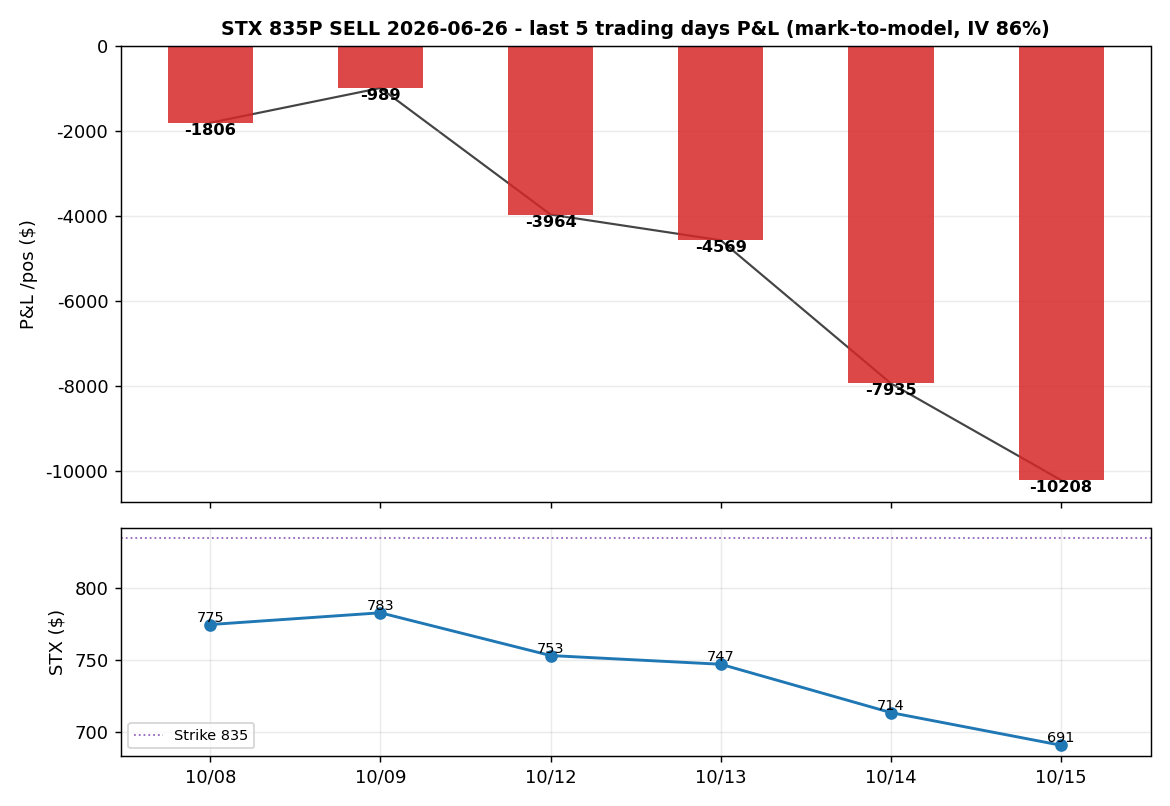
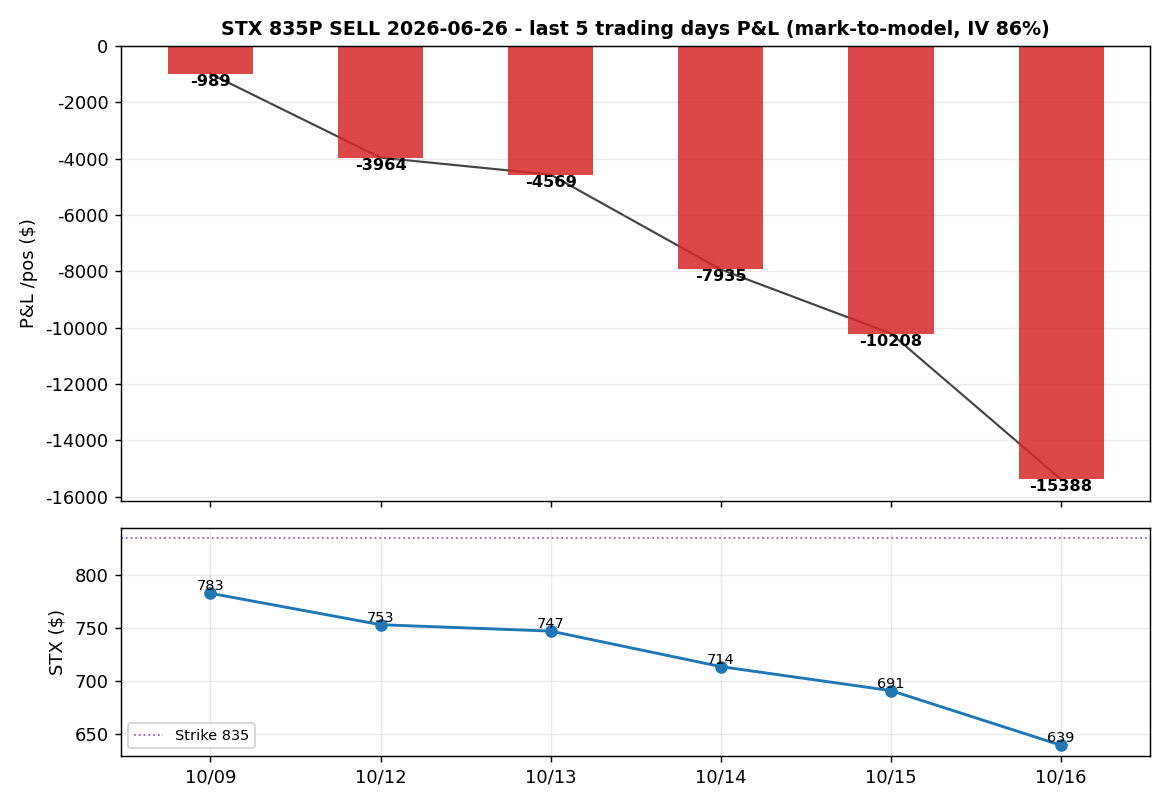
positions: 2026-10-16

diff --git a/positions.html b/positions.html
@@ -12,12 +12,12 @@ img{width:100%;height:auto;border-radius:8px;background:#fff}
 .warn{color:#e0a030;font-size:12.5px;line-height:1.7;margin-top:8px}
 </style></head><body><div class="wrap">
 <h1>持仓盈亏追踪</h1>
-<div class="sub">独立于每日荐股 · 数据 yfinance(延迟) · 盈亏为 BS 模型重算(IV 代理),非真实成交价 · 非投资建议<br>更新: 2026-10-15 23:46 UTC</div>
+<div class="sub">独立于每日荐股 · 数据 yfinance(延迟) · 盈亏为 BS 模型重算(IV 代理),非真实成交价 · 非投资建议<br>更新: 2026-10-16 23:48 UTC</div>
 <div class="card">
   <h2>STX Seagate · 835 PUT <span class="tag">SELL</span></h2>
   <div class="kv">到期 2026-06-26 · 建仓 2026-06-01 @ 权利金 $42.11 · 1 张<br>
-  最新(10/15): 标的 $690.81 · 浮动盈亏 <b class="r">-10,208</b>
-  (区间 -10,208 ~ -989)<br>
+  最新(10/16): 标的 $639.01 · 浮动盈亏 <b class="r">-15,388</b>
+  (区间 -15,388 ~ -989)<br>
   盈亏平衡 $792.89 · <b>赢的机率 PoP ≈ None%</b>(到期落在盈利侧, BS 估算)<br>
   下次财报 2026-10-27 ✅ 在到期后</div>
   <div style="font-size:12px;color:#8b8f98;margin:8px 0 2px">到期损益示意图</div>
@@ -30,15 +30,15 @@ img{width:100%;height:auto;border-radius:8px;background:#fff}
     <tr><th style="border:1px solid #23262d;padding:5px 12px;color:#e0a030">日期</th>
         <th style="border:1px solid #23262d;padding:5px 12px;color:#e0a030">标的</th>
         <th style="border:1px solid #23262d;padding:5px 12px;color:#e0a030">P&L</th></tr>
-    <tr><td style="border:1px solid #23262d;padding:5px 12px">10/08</td><td style="border:1px solid #23262d;padding:5px 12px">$774.83</td><td class='r'>-1,806</td></tr><tr><td style="border:1px solid #23262d;padding:5px 12px">10/09</td><td style="border:1px solid #23262d;padding:5px 12px">$783.0</td><td class='r'>-989</td></tr><tr><td style="border:1px solid #23262d;padding:5px 12px">10/12</td><td style="border:1px solid #23262d;padding:5px 12px">$753.25</td><td class='r'>-3,964</td></tr><tr><td style="border:1px solid #23262d;padding:5px 12px">10/13</td><td style="border:1px solid #23262d;padding:5px 12px">$747.2</td><td class='r'>-4,569</td></tr><tr><td style="border:1px solid #23262d;padding:5px 12px">10/14</td><td style="border:1px solid #23262d;padding:5px 12px">$713.54</td><td class='r'>-7,935</td></tr><tr><td style="border:1px solid #23262d;padding:5px 12px">10/15</td><td style="border:1px solid #23262d;padding:5px 12px">$690.81</td><td class='r'>-10,208</td></tr>
+    <tr><td style="border:1px solid #23262d;padding:5px 12px">10/09</td><td style="border:1px solid #23262d;padding:5px 12px">$783.0</td><td class='r'>-989</td></tr><tr><td style="border:1px solid #23262d;padding:5px 12px">10/12</td><td style="border:1px solid #23262d;padding:5px 12px">$753.25</td><td class='r'>-3,964</td></tr><tr><td style="border:1px solid #23262d;padding:5px 12px">10/13</td><td style="border:1px solid #23262d;padding:5px 12px">$747.2</td><td class='r'>-4,569</td></tr><tr><td style="border:1px solid #23262d;padding:5px 12px">10/14</td><td style="border:1px solid #23262d;padding:5px 12px">$713.54</td><td class='r'>-7,935</td></tr><tr><td style="border:1px solid #23262d;padding:5px 12px">10/15</td><td style="border:1px solid #23262d;padding:5px 12px">$690.81</td><td class='r'>-10,208</td></tr><tr><td style="border:1px solid #23262d;padding:5px 12px">10/16</td><td style="border:1px solid #23262d;padding:5px 12px">$639.01</td><td class='r'>-15,388</td></tr>
   </table>
   <div class="warn">⚠ mark-to-model:用真实日线 + BS 重算(IV 固定 86% 代理),非真实期权成交价。</div>
 </div>
 <div class="card">
   <h2>GOOGL 谷歌 · 345 PUT <span class="tag">SELL</span></h2>
   <div class="kv">到期 2026-07-17 · 建仓 2026-06-01 @ 权利金 $4.5 · 1 张<br>
-  最新(10/15): 标的 $349.22 · 浮动盈亏 <b class="g">+450</b>
-  (区间 +450 ~ +450)<br>
+  最新(10/16): 标的 $340.59 · 浮动盈亏 <b class="g">+9</b>
+  (区间 +9 ~ +450)<br>
   盈亏平衡 $340.5 · <b>赢的机率 PoP ≈ None%</b>(到期落在盈利侧, BS 估算)<br>
   下次财报 2026-10-28 ✅ 在到期后</div>
   <div style="font-size:12px;color:#8b8f98;margin:8px 0 2px">到期损益示意图</div>
@@ -51,14 +51,14 @@ img{width:100%;height:auto;border-radius:8px;background:#fff}
     <tr><th style="border:1px solid #23262d;padding:5px 12px;color:#e0a030">日期</th>
         <th style="border:1px solid #23262d;padding:5px 12px;color:#e0a030">标的</th>
         <th style="border:1px solid #23262d;padding:5px 12px;color:#e0a030">P&L</th></tr>
-    <tr><td style="border:1px solid #23262d;padding:5px 12px">10/08</td><td style="border:1px solid #23262d;padding:5px 12px">$348.29</td><td class='g'>+450</td></tr><tr><td style="border:1px solid #23262d;padding:5px 12px">10/09</td><td style="border:1px solid #23262d;padding:5px 12px">$351.66</td><td class='g'>+450</td></tr><tr><td style="border:1px solid #23262d;padding:5px 12px">10/12</td><td style="border:1px solid #23262d;padding:5px 12px">$352.72</td><td class='g'>+450</td></tr><tr><td style="border:1px solid #23262d;padding:5px 12px">10/13</td><td style="border:1px solid #23262d;padding:5px 12px">$353.78</td><td class='g'>+450</td></tr><tr><td style="border:1px solid #23262d;padding:5px 12px">10/14</td><td style="border:1px solid #23262d;padding:5px 12px">$347.64</td><td class='g'>+450</td></tr><tr><td style="border:1px solid #23262d;padding:5px 12px">10/15</td><td style="border:1px solid #23262d;padding:5px 12px">$349.22</td><td class='g'>+450</td></tr>
+    <tr><td style="border:1px solid #23262d;padding:5px 12px">10/09</td><td style="border:1px solid #23262d;padding:5px 12px">$351.66</td><td class='g'>+450</td></tr><tr><td style="border:1px solid #23262d;padding:5px 12px">10/12</td><td style="border:1px solid #23262d;padding:5px 12px">$352.72</td><td class='g'>+450</td></tr><tr><td style="border:1px solid #23262d;padding:5px 12px">10/13</td><td style="border:1px solid #23262d;padding:5px 12px">$353.78</td><td class='g'>+450</td></tr><tr><td style="border:1px solid #23262d;padding:5px 12px">10/14</td><td style="border:1px solid #23262d;padding:5px 12px">$347.64</td><td class='g'>+450</td></tr><tr><td style="border:1px solid #23262d;padding:5px 12px">10/15</td><td style="border:1px solid #23262d;padding:5px 12px">$349.22</td><td class='g'>+450</td></tr><tr><td style="border:1px solid #23262d;padding:5px 12px">10/16</td><td style="border:1px solid #23262d;padding:5px 12px">$340.59</td><td class='g'>+9</td></tr>
   </table>
   <div class="warn">⚠ mark-to-model:用真实日线 + BS 重算(IV 固定 31% 代理),非真实期权成交价。</div>
 </div>
 <div class="card">
   <h2>AAPL 苹果 · 295 PUT <span class="tag">SELL</span></h2>
   <div class="kv">到期 2026-07-10 · 建仓 2026-06-01 @ 权利金 $4.7 · 1 张<br>
-  最新(10/15): 标的 $342.0 · 浮动盈亏 <b class="g">+470</b>
+  最新(10/16): 标的 $343.46 · 浮动盈亏 <b class="g">+470</b>
   (区间 +470 ~ +470)<br>
   盈亏平衡 $290.3 · <b>赢的机率 PoP ≈ None%</b>(到期落在盈利侧, BS 估算)<br>
   下次财报 2026-11-02 ✅ 在到期后</div>
@@ -72,7 +72,7 @@ img{width:100%;height:auto;border-radius:8px;background:#fff}
     <tr><th style="border:1px solid #23262d;padding:5px 12px;color:#e0a030">日期</th>
         <th style="border:1px solid #23262d;padding:5px 12px;color:#e0a030">标的</th>
         <th style="border:1px solid #23262d;padding:5px 12px;color:#e0a030">P&L</th></tr>
-    <tr><td style="border:1px solid #23262d;padding:5px 12px">10/08</td><td style="border:1px solid #23262d;padding:5px 12px">$340.42</td><td class='g'>+470</td></tr><tr><td style="border:1px solid #23262d;padding:5px 12px">10/09</td><td style="border:1px solid #23262d;padding:5px 12px">$336.64</td><td class='g'>+470</td></tr><tr><td style="border:1px solid #23262d;padding:5px 12px">10/12</td><td style="border:1px solid #23262d;padding:5px 12px">$340.97</td><td class='g'>+470</td></tr><tr><td style="border:1px solid #23262d;padding:5px 12px">10/13</td><td style="border:1px solid #23262d;padding:5px 12px">$341.27</td><td class='g'>+470</td></tr><tr><td style="border:1px solid #23262d;padding:5px 12px">10/14</td><td style="border:1px solid #23262d;padding:5px 12px">$342.96</td><td class='g'>+470</td></tr><tr><td style="border:1px solid #23262d;padding:5px 12px">10/15</td><td style="border:1px solid #23262d;padding:5px 12px">$342.0</td><td class='g'>+470</td></tr>
+    <tr><td style="border:1px solid #23262d;padding:5px 12px">10/09</td><td style="border:1px solid #23262d;padding:5px 12px">$336.64</td><td class='g'>+470</td></tr><tr><td style="border:1px solid #23262d;padding:5px 12px">10/12</td><td style="border:1px solid #23262d;padding:5px 12px">$340.97</td><td class='g'>+470</td></tr><tr><td style="border:1px solid #23262d;padding:5px 12px">10/13</td><td style="border:1px solid #23262d;padding:5px 12px">$341.27</td><td class='g'>+470</td></tr><tr><td style="border:1px solid #23262d;padding:5px 12px">10/14</td><td style="border:1px solid #23262d;padding:5px 12px">$342.96</td><td class='g'>+470</td></tr><tr><td style="border:1px solid #23262d;padding:5px 12px">10/15</td><td style="border:1px solid #23262d;padding:5px 12px">$342.0</td><td class='g'>+470</td></tr><tr><td style="border:1px solid #23262d;padding:5px 12px">10/16</td><td style="border:1px solid #23262d;padding:5px 12px">$343.46</td><td class='g'>+470</td></tr>
   </table>
   <div class="warn">⚠ mark-to-model:用真实日线 + BS 重算(IV 固定 25% 代理),非真实期权成交价。</div>
 </div></div></body></html>
